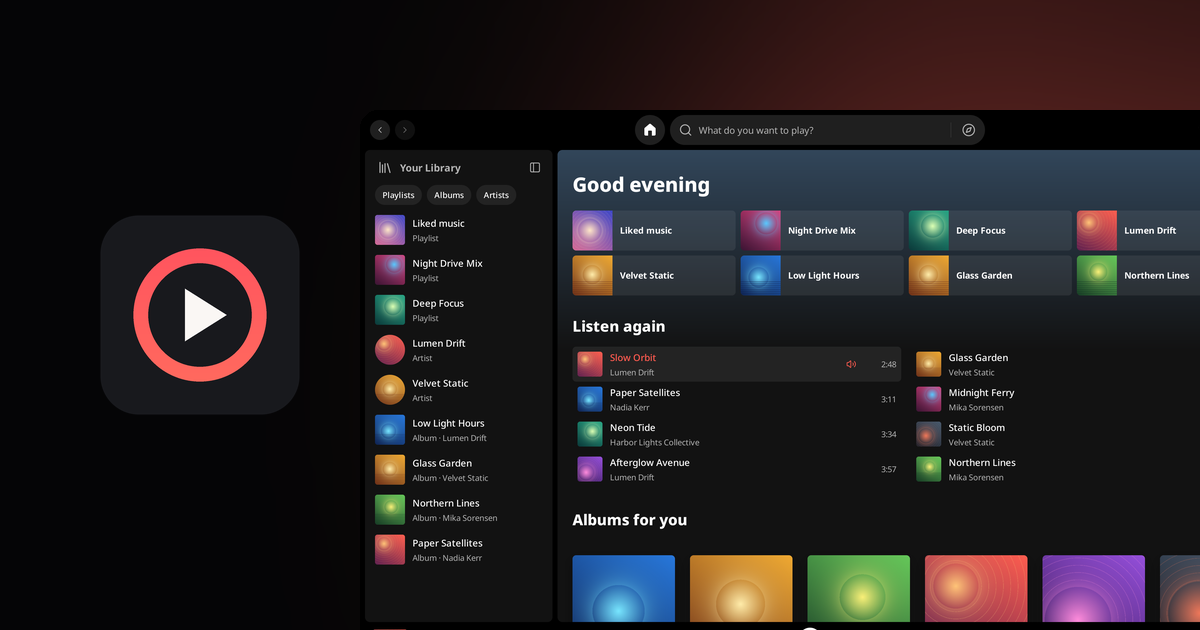
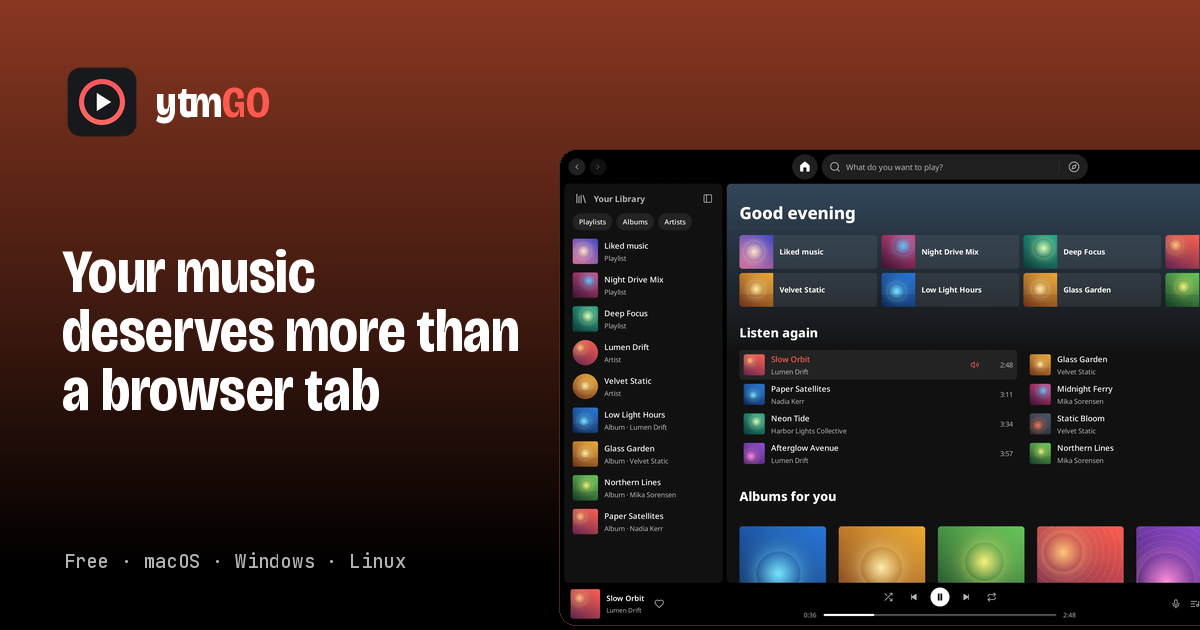
Fix the website issues found in a full UI, UX and copy review
Behaviour
- CJK visitors to the root no longer see the English page before the
  redirect: the language redirect moved from the deferred site.js into
  boot.js, which runs in <head> before the first paint and also marks the
  page as scripted. The language tests run both scripts like a page does.
- The page player's clock started at 0:19 at the top of the page; it now
  runs from 0:00 to the full length at the bottom, seeking lands where it
  should (it inherited CSS smooth scrolling and stopped short), and the
  seek slider announces the time instead of 0–1000.
- Phones and tablets are told ytmGO is a desktop app under the download
  button, instead of being sent to a release page they can't use.
- The album's play button said "from the first track" but goes to track 2;
  it now says "Play the next track".

Copy, in all four languages
- "Apple Silicon" → "Apple silicon", matching the download buttons.
- Linux needs "WebKitGTK 4.1 (2.50.2 or later)", not "4.1 2.50.2".
- English quotes the app's labels "Follow playback" and "Sign out and
  clear local data", as the other languages already did.
- The update FAQ matches the docs: brew upgrade --cask --greedy, and a
  .deb updates by installing the newer .deb with apt (there is no apt
  repository).

Polish
- Upcoming library lines were 2.4:1 against the background; now readable.
- Print hides the player, nav and download controls.
- The 404 page uses the site's look, says what happened in all four
[…]

diff --git a/site/assets/site.js b/site/assets/site.js
@@ -1,4 +1,4 @@
-// ytmGO website: language choice, platform detection, live release links,
+// ytmGO website: the language switcher, platform detection, live release links,
 // copy buttons, the sung headline, the lyrics demo and the page player.
 // The page works without it.
 (() => {
@@ -11,28 +11,12 @@
     set: (k, v) => { try { localStorage.setItem(k, v); } catch { /* private mode */ } },
   };
 
-  // Language. The root restores a saved choice, otherwise it follows the
-  // browser's language. Explicit localized URLs keep their requested language.
-  const LANG_KEY = "ytmgo-site-lang";
+  // Language. The switcher saves the choice; boot.js restores it on the next
+  // visit to the root.
   document.querySelectorAll("a[data-lang]").forEach((a) => {
-    a.addEventListener("click", () => store.set(LANG_KEY, a.dataset.lang || "en"));
+    a.addEventListener("click", () => store.set("ytmgo-site-lang", a.dataset.lang || "en"));
   });
   const here = document.documentElement.lang;
-  if (here === "en" && !/bot|crawl|spider/i.test(navigator.userAgent)) {
-    const saved = store.get(LANG_KEY);
-    const pick = ["en", "zh-hans/", "zh-hant/", "ja/"].includes(saved) ? saved
-      : (navigator.languages || [navigator.language]).map((l) => l.toLowerCase()).map((l) => {
-      if (/^zh-(tw|hk|mo|hant)/.test(l)) return "zh-hant/";
-      if (l.startsWith("zh")) return "zh-hans/";
-      if (l.startsWith("ja")) return "ja/";
-      if (l.startsWith("en")) return "en";
-      return null;
-    }).find(Boolean);
-    if (pick && pick !== "en") {
-      location.replace(pick + location.search + location.hash);
-      return;
-    }
-  }
   document.addEventListener("click", (e) => {
     document.querySelectorAll("details.lang[open]").forEach((d) => { if (!d.contains(e.target)) d.open = false; });
   });
@@ -40,7 +24,6 @@
     if (e.key === "Escape") document.querySelectorAll("details.lang[open]").forEach((d) => { d.open = false; d.querySelector("summary").focus(); });
   });
 
-  document.documentElement.classList?.add("js");
   const still = typeof matchMedia === "function" && matchMedia("(prefers-reduced-motion: reduce)").matches;
 
   const nav = document.querySelector(".nav");
@@ -64,6 +47,11 @@
     const others = document.querySelector("[data-others]");
     if (others) others.open = false;
     document.querySelectorAll("[data-cta-label]").forEach((label) => { label.textContent = fmt(`cta.${os}`); });
+  }
+  // Phones and tablets can't run ytmGO: say so where the requirements go.
+  if (!os) {
+    const req = document.querySelector('[data-pick="req"]');
+    if (req) req.textContent = fmt("desktop");
   }
   // The download track's buttons mirror this computer's platform card. Only
   // macOS keeps the card's labels, since its two buttons differ by chip.
@@ -229,7 +217,9 @@
   };
 
   // The page player. Each track's length is in data-time; scrolling through a
-  // track plays through its length, and the seek bar scrolls back.
+  // track plays through its length, and the seek bar scrolls back. A track
+  // starts playing once its top passes 40% of the window, so the clock runs
+  // from 0:00 at the top of the page to the full length at the bottom.
   const player = document.querySelector("[data-player]");
   const tracks = [...document.querySelectorAll("section.track[data-time]")];
   let follow = () => {};
@@ -243,23 +233,26 @@
     const elapsed = player.querySelector("[data-elapsed]");
     const toggle = player.querySelector("[data-toggle]");
     const tops = () => tracks.map((t) => t.getBoundingClientRect().top + scrollY);
-    const ends = (t, i) => (i + 1 < t.length ? t[i + 1] : document.documentElement.scrollHeight);
-    const mark = () => innerHeight * 0.4;
+    // Scroll positions where each track starts and ends.
+    const spans = () => {
+      const max = Math.max(1, document.documentElement.scrollHeight - innerHeight);
+      const starts = tops().map((top, i) => (i ? Math.min(max, Math.max(0, top - innerHeight * 0.4)) : 0));
+      return starts.map((a, i) => [a, Math.max(a + 1, i + 1 < starts.length ? starts[i + 1] : max)]);
+    };
     let current = -1;
     let seeking = false;
     player.querySelector("[data-total]").textContent = clock(total);
     player.hidden = false;
 
     follow = () => {
-      const t = tops();
-      const y = scrollY + mark();
+      const s = spans();
       let k = 0;
-      t.forEach((top, i) => { if (top <= y) k = i; });
-      const f = Math.min(1, Math.max(0, (y - t[k]) / (ends(t, k) - t[k])));
-      const atEnd = scrollY + innerHeight >= document.documentElement.scrollHeight - 2;
-      const now = atEnd ? total : starts[k] + f * lengths[k];
+      s.forEach(([a], i) => { if (a <= scrollY) k = i; });
+      const f = Math.min(1, Math.max(0, (scrollY - s[k][0]) / (s[k][1] - s[k][0])));
+      const now = starts[k] + f * lengths[k];
       elapsed.textContent = clock(now);
       if (!seeking) seek.value = String(Math.round((now / total) * 1000));
+      seek.setAttribute("aria-valuetext", `${clock(now)} / ${clock(total)}`);
       seek.style.setProperty("--p", `${(now / total) * 100}%`);
       if (k === current) return;
       const changed = current !== -1;
@@ -276,15 +269,14 @@
       }
     };
     const go = (k) => {
-      const behavior = still ? "auto" : "smooth";
+      const behavior = still ? "instant" : "smooth";
       if (k <= 0) scrollTo({ top: 0, behavior });
       else tracks[Math.min(k, tracks.length - 1)].scrollIntoView({ behavior });
     };
     player.querySelector("[data-prev]").addEventListener("click", () => {
-      const t = tops();
       // Like a player: back to the start of this track, or the previous one
       // if you're already there.
-      go(scrollY > t[current] + 80 && current > 0 ? current : current - 1);
+      go(scrollY > tops()[current] + 80 && current > 0 ? current : current - 1);
     });
     player.querySelector("[data-next]").addEventListener("click", () => go(current + 1));
     seek.addEventListener("input", () => {
@@ -292,9 +284,8 @@
       const want = (Number(seek.value) / 1000) * total;
       let k = 0;
       starts.forEach((s, i) => { if (s <= want) k = i; });
-      const t = tops();
-      const f = (want - starts[k]) / lengths[k];
-      scrollTo({ top: t[k] + f * (ends(t, k) - t[k]) - mark(), behavior: "auto" });
+      const [a, b] = spans()[k];
+      scrollTo({ top: a + ((want - starts[k]) / lengths[k]) * (b - a), behavior: "instant" });
     });
     seek.addEventListener("change", () => { seeking = false; });
     const label = () => toggle.setAttribute("aria-label", fmt(moving ? "pause" : "play"));

diff --git a/site/assets/boot.js b/site/assets/boot.js
@@ -1,0 +1,28 @@
+// ytmGO website: runs in <head>, before the page paints. A visit to the root
+// goes straight to the visitor's language, so they never see the English page
+// flash first; then the page is marked as scripted for site.js's styles.
+(() => {
+  "use strict";
+  const root = document.documentElement;
+
+  // The root restores a choice saved by the language switcher, otherwise it
+  // follows the browser's language. Explicit localized URLs keep their
+  // requested language, and crawlers stay on English.
+  if (root.lang === "en" && !/bot|crawl|spider/i.test(navigator.userAgent)) {
+    let saved = null;
+    try { saved = localStorage.getItem("ytmgo-site-lang"); } catch { /* private mode */ }
+    const pick = ["en", "zh-hans/", "zh-hant/", "ja/"].includes(saved) ? saved
+      : (navigator.languages || [navigator.language]).map((l) => l.toLowerCase()).map((l) => {
+        if (/^zh-(tw|hk|mo|hant)/.test(l)) return "zh-hant/";
+        if (l.startsWith("zh")) return "zh-hans/";
+        if (l.startsWith("ja")) return "ja/";
+        if (l.startsWith("en")) return "en";
+        return null;
+      }).find(Boolean);
+    if (pick && pick !== "en") {
+      location.replace(pick + location.search + location.hash);
+      return;
+    }
+  }
+  root.classList.add("js");
+})();

diff --git a/site/assets/site.css b/site/assets/site.css
@@ -261,7 +261,7 @@ figure.shot:not([class*=wrap]) { margin-inline: 0; }
 /* 04 Library: three lines sung as you scroll past them. */
 .sung-list { margin: 48px 0 0; padding: 0; list-style: none; }
 .sung-list li { padding: 16px 0; font: 650 clamp(22px, 2.4vw, 32px)/1.2 var(--display); letter-spacing: -0.015em; transition: color .5s; }
-.js .sung-list li { color: rgb(255 255 255 / .3); }
+.js .sung-list li { color: rgb(255 255 255 / .42); }
 .js .sung-list li.is-past { color: rgb(255 255 255 / .6); }
 .js .sung-list li.is-on { color: #fff; }
 .shot--sticky { position: sticky; top: 96px; }
@@ -427,6 +427,9 @@ kbd { display: inline-grid; place-items: center; min-width: 26px; height: 26px; 
 
 @media print {
   .rv { opacity: 1; translate: none; scale: none; }
+  .nav, .player, .skip, .hero__actions, .get__buttons, .others { display: none; }
+  .js body { padding-bottom: 0; }
+  .js .sung-list li { color: #fff; }
 }
 
 /* Smaller screens */

diff --git a/site/template.html b/site/template.html
@@ -23,6 +23,7 @@
 <link rel="apple-touch-icon" href="{{.Root}}assets/icon-180.png">
 <link rel="preload" href="{{.Root}}assets/fonts/bricolage-grotesque.woff2" as="font" type="font/woff2" crossorigin>
 <link rel="stylesheet" href="{{.Root}}assets/site.css?v={{.StyleHash}}">
+<script src="{{.Root}}assets/boot.js?v={{.BootHash}}"></script>
 <script type="application/ld+json">{"@context":"https://schema.org","@type":"SoftwareApplication","name":"ytmGO","applicationCategory":"MultimediaApplication","operatingSystem":"macOS, Windows, Linux","offers":{"@type":"Offer","price":"0","priceCurrency":"USD"},"license":"https://www.apache.org/licenses/LICENSE-2.0","url":"{{.Base}}","downloadUrl":"https://github.com/mreasonyang/ytmgo/releases"}</script>
 <script id="i18n" type="application/json">{{.JS}}</script>
 <script src="{{.Root}}assets/site.js?v={{.ScriptHash}}" defer></script>

diff --git a/site/gen/main.go b/site/gen/main.go
@@ -56,7 +56,8 @@ type page struct {
 	Year       int
 	JS         map[string]string
 	ScriptHash string // changes the script URL whenever its contents change
-	StyleHash  string // the same for the stylesheet
+	BootHash   string // the same for boot.js
+	StyleHash  string // and for the stylesheet
 }
 
 func main() {
@@ -92,16 +93,14 @@ func build(src, out, base string) error {
 	if err != nil {
 		return err
 	}
-	script, err := os.ReadFile(filepath.Join(src, "assets", "site.js"))
-	if err != nil {
-		return err
+	hashes := map[string]string{}
+	for _, name := range []string{"site.js", "boot.js", "site.css"} {
+		data, err := os.ReadFile(filepath.Join(src, "assets", name))
+		if err != nil {
+			return err
+		}
+		hashes[name] = fmt.Sprintf("%x", sha256.Sum256(data))[:12]
 	}
-	scriptHash := fmt.Sprintf("%x", sha256.Sum256(script))[:12]
-	style, err := os.ReadFile(filepath.Join(src, "assets", "site.css"))
-	if err != nil {
-		return err
-	}
-	styleHash := fmt.Sprintf("%x", sha256.Sum256(style))[:12]
 	if err := os.RemoveAll(out); err != nil {
 		return err
 	}
@@ -142,7 +141,7 @@ func build(src, out, base string) error {
 		}
 		root := strings.Repeat("../", strings.Count(l.Slug, "/"))
 		var buf bytes.Buffer
-		if err := t.Execute(&buf, page{Locale: l, Locales: locales, Root: root, Base: base, Year: time.Now().Year(), JS: js, ScriptHash: scriptHash, StyleHash: styleHash}); err != nil {
+		if err := t.Execute(&buf, page{Locale: l, Locales: locales, Root: root, Base: base, Year: time.Now().Year(), JS: js, ScriptHash: hashes["site.js"], BootHash: hashes["boot.js"], StyleHash: hashes["site.css"]}); err != nil {
 			return fmt.Errorf("%s: %w", l.Code, err)
 		}
 		if err := write(filepath.Join(out, l.Slug, "index.html"), buf.Bytes()); err != nil {
@@ -187,7 +186,7 @@ func checkKeys(strs map[string]map[string]string) error {
 }
 
 // notFoundStyle is the 404 page's only style; _headers allows it by hash.
-const notFoundStyle = `body{margin:0;min-height:100vh;display:grid;place-content:center;gap:16px;text-align:center;background:#0a0a0b;color:#fff;font:16px/1.5 system-ui,sans-serif}a{color:#ff7a6e}nav{display:flex;gap:16px;justify-content:center}`
+const notFoundStyle = `body{margin:0;min-height:100vh;display:grid;place-content:center;justify-items:center;gap:20px;padding:24px;text-align:center;background:linear-gradient(#5f2a1c,#000 60%) #000;color:#fff;font:16px/1.5 system-ui,sans-serif}img{border-radius:22%}h1{margin:0;font-size:56px;line-height:1}p{margin:0;color:#b3b3b3}nav{display:flex;flex-wrap:wrap;gap:8px;justify-content:center}a{padding:8px 16px;border-radius:999px;background:rgb(255 255 255/.1);color:#fff;text-decoration:none;font-weight:600}a:hover{background:rgb(255 255 255/.18)}`
 
 // extras writes what Cloudflare Pages expects beside the pages.
 func extras(out, base string) error {
@@ -212,9 +211,11 @@ func extras(out, base string) error {
 		// Root-relative, so preview deployments link within themselves.
 		links = append(links, fmt.Sprintf(`<a href="/%s" lang="%s">%s</a>`, l.Slug, l.Lang, l.Name))
 	}
-	files["404.html"] = `<!doctype html><html lang="en"><meta charset="utf-8"><meta name="viewport" content="width=device-width,initial-scale=1"><title>ytmGO — page not found</title>` +
+	files["404.html"] = `<!doctype html><html lang="en"><meta charset="utf-8"><meta name="viewport" content="width=device-width,initial-scale=1"><title>ytmGO — page not found</title><link rel="icon" href="/assets/icon-32.png" sizes="32x32">` +
 		`<style>` + notFoundStyle + `</style>` +
-		`<h1>404</h1><nav>` + strings.Join(links, "") + `</nav></html>` + "\n"
+		`<img src="/assets/icon-180.png" alt="" width="88" height="88"><h1>404</h1>` +
+		`<p>This page isn't here.<br><span lang="zh-Hans">找不到此页面。</span> <span lang="zh-Hant">找不到此頁面。</span> <span lang="ja">このページは見つかりません。</span></p>` +
+		`<nav>` + strings.Join(links, "") + `</nav></html>` + "\n"
 	for name, body := range files {
 		if err := write(filepath.Join(out, name), []byte(body)); err != nil {
 			return err

diff --git a/site/tools/encode_shots.py b/site/tools/encode_shots.py
@@ -6,11 +6,14 @@
 
 Each screenshot is written at 1x and 2x as WebP; the icon becomes the favicon
 and touch icon, and the English home screen becomes the social card.
+Re-render only the card from the shipped home screen with:
+
+    python3 site/tools/encode_shots.py --social
 """
 import sys
 from pathlib import Path
 
-from PIL import Image, ImageDraw, ImageFilter
+from PIL import Image, ImageDraw, ImageFont
 
 ROOT = Path(__file__).resolve().parents[1]
 ASSETS = ROOT / "assets"
@@ -25,28 +28,57 @@ def encode(src: Path, dst: Path) -> None:
         im.resize(size, Image.LANCZOS).save(dst.with_name(f"{dst.name}@{scale}x.webp"), "WEBP", quality=84, method=6)
 
 
+def font(name: str, size: int, axes: list[int]) -> ImageFont.FreeTypeFont:
+    f = ImageFont.truetype(str(ASSETS / "fonts" / name), size)
+    f.set_variation_by_axes(axes)
+    return f
+
+
 def social(home: Path, icon: Image.Image) -> None:
+    """The link-preview card, in the site's own look: the intro track's rust
+    wash, the wordmark and headline, and the real home screen."""
     w, h = 1200, 630
-    card = Image.new("RGB", (w, h), (10, 10, 11))
-    glow = Image.new("RGB", (w, h), (0, 0, 0))
-    ImageDraw.Draw(glow).ellipse((620, 40, 1300, 720), fill=(255, 90, 79))
-    card = Image.blend(card, glow.filter(ImageFilter.GaussianBlur(160)), 0.45)
+    tint = (176, 71, 43)
+    card = Image.new("RGB", (w, h), (0, 0, 0))
+    wash = ImageDraw.Draw(card)
+    for y in range(h):
+        k = max(0.0, 0.78 - 0.78 * y / (h * 0.9))
+        wash.line([(0, y), (w, y)], fill=tuple(round(c * k) for c in tint))
     shot = Image.open(home).convert("RGB")
-    shot = shot.resize((900, 900 * shot.height // shot.width), Image.LANCZOS)
+    shot = shot.resize((760, 760 * shot.height // shot.width), Image.LANCZOS)
     mask = Image.new("L", shot.size, 0)
-    ImageDraw.Draw(mask).rounded_rectangle((0, 0, *shot.size), 18, fill=255)
-    card.paste(shot, (360, 110), mask)
-    badge = icon.resize((220, 220), Image.LANCZOS)
-    card.paste(badge, (90, 205), badge)
+    ImageDraw.Draw(mask).rounded_rectangle((0, 0, *shot.size), 16, fill=255)
+    card.paste(shot, (560, 150), mask)
+    draw = ImageDraw.Draw(card)
+    draw.rounded_rectangle((559, 149, 560 + shot.width, 150 + shot.height), 16, outline=(70, 40, 34), width=1)
+    badge = icon.resize((76, 76), Image.LANCZOS)
+    card.paste(badge, (64, 64), badge)
+    brand = font("bricolage-grotesque.woff2", 44, [96, 720, 88])
+    draw.text((156, 102), "ytm", font=brand, fill=(255, 255, 255), anchor="lm")
+    draw.text((156 + draw.textlength("ytm", font=brand), 102), "GO", font=brand, fill=(255, 90, 79), anchor="lm")
+    lines = ("Your music", "deserves more than", "a browser tab")
+    size = 76
+    while max(draw.textlength(t, font=font("bricolage-grotesque.woff2", size, [96, 720, 88])) for t in lines) > 466:
+        size -= 2
+    title = font("bricolage-grotesque.woff2", size, [96, 720, 88])
+    y = 236
+    for line in lines:
+        draw.text((62, y), line, font=title, fill=(255, 255, 255))
+        y += round(size * 0.98)
+    mono = font("jetbrains-mono.woff2", 19, [500])
+    draw.text((64, 548), "Free · macOS · Windows · Linux", font=mono, fill=(179, 179, 179))
     card.save(ASSETS / "social.png", optimize=True)
 
 
 def main() -> None:
+    icon = Image.open(ROOT.parent / "resources" / "icon.png").convert("RGBA")
+    if sys.argv[1] == "--social":
+        social(ASSETS / "shots" / "en" / "home@2x.webp", icon)
+        return
     shots = Path(sys.argv[1])
     for locale in sorted(p.name for p in shots.iterdir() if p.is_dir()):
         for name in SHOTS:
             encode(shots / locale / f"{name}.png", ASSETS / "shots" / locale / name)
-    icon = Image.open(ROOT.parent / "resources" / "icon.png").convert("RGBA")
     for size in (32, 180, 512):
         icon.resize((size, size), Image.LANCZOS).save(ASSETS / f"icon-{size}.png", optimize=True)
     social(shots / "en" / "home.png", icon)

diff --git a/site/README.md b/site/README.md
@@ -47,10 +47,13 @@ python3 -m http.server 8000 --directory site/dist
 - The generator also writes Cloudflare's `_headers`: a Content-Security-Policy
   that allows only the site's own files plus the GitHub API, the usual
   hardening headers, and a week of caching for screenshots.
-- The JavaScript URL includes a content hash, so a new deployment loads the
+- The social card (`assets/social.png`) is drawn by `encode_shots.py`;
+  `python3 -I site/tools/encode_shots.py --social` redraws only the card.
+- The script and stylesheet URLs include a content hash, so a new deployment loads the
   updated script even when a visitor has an earlier version cached.
 
-The root URL restores a language chosen in the switcher; without a valid saved
+`assets/boot.js` runs in `<head>` before the page paints, so a redirect never
+shows the English page first. The root URL restores a language chosen in the switcher; without a valid saved
 choice, it follows the first supported browser language. Redirects keep query
 parameters and fragments. Direct links to a localized page stay in that language.
 
